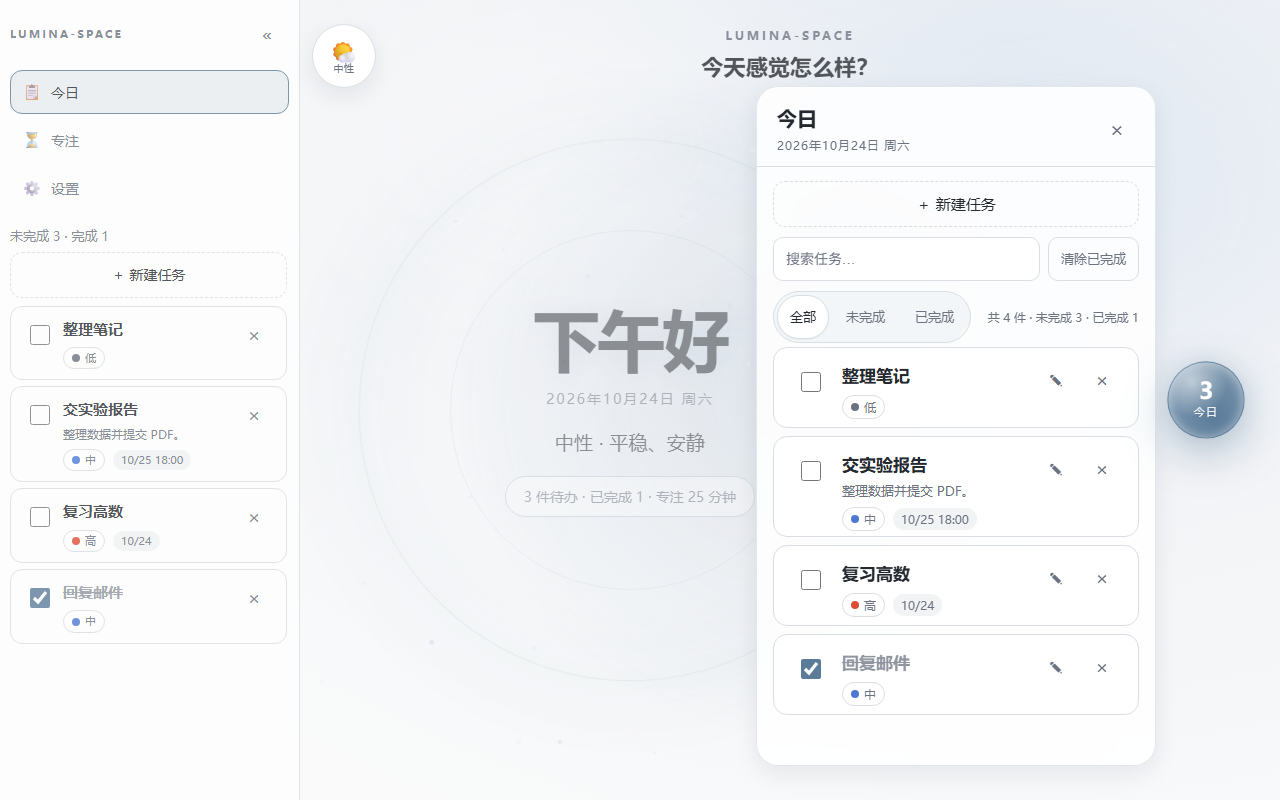
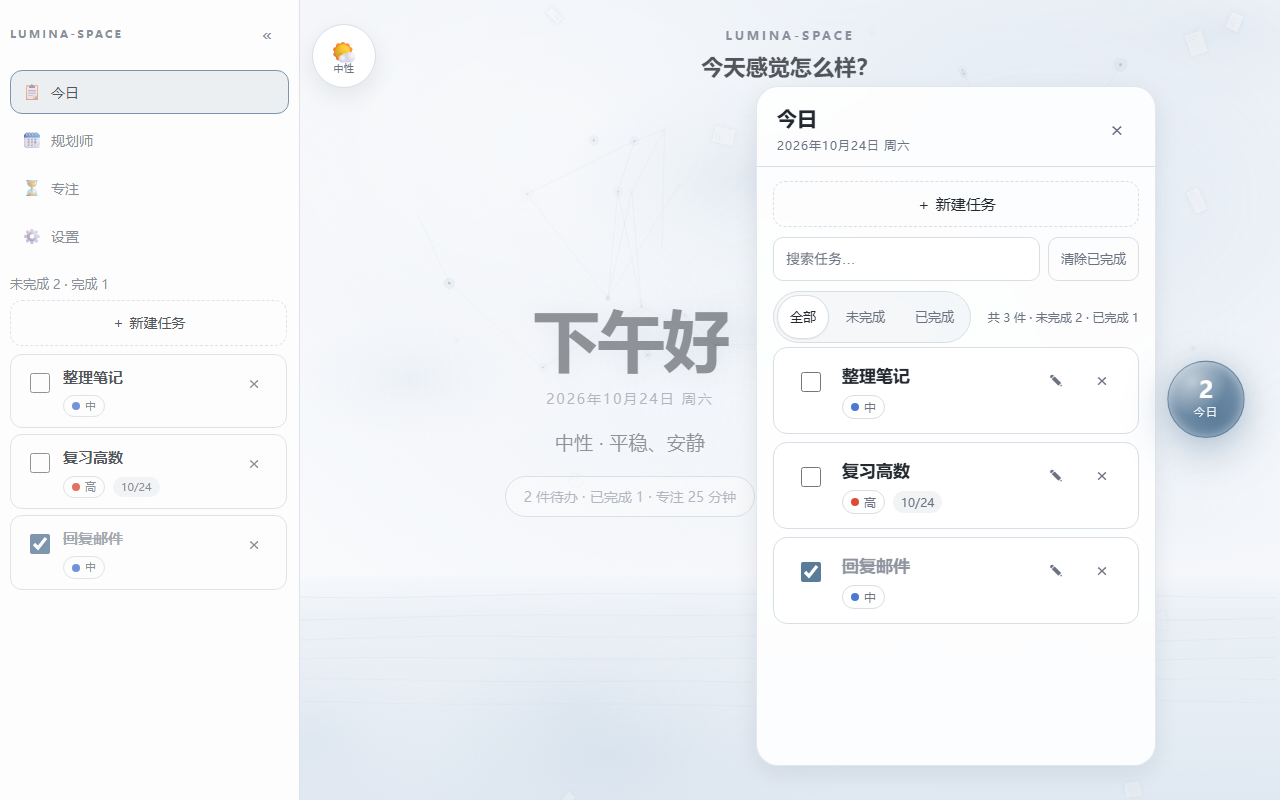
docs: finalize v1.1 scenes and global noise

diff --git a/AGENTS.md b/AGENTS.md
@@ -9,6 +9,7 @@ Guidance for AI agents working on **Lumina-Space** — a mood-aware todo and foc
 - **v0.3 (2026-10-24)**: task CRUD, sidebar drawer (today/focus/settings), pomodoro.
 - **v0.4 (2026-10-24)**: resizable full-height sidebar, large task editor (title/description/due date+time/priority), filters/search, focus stats, export; mood history UI removed.
 - **v1.0 (2026-10-24)**: particle hero, floating today orb, 7-day planner, focus timer tuning, generated hover/click/white-noise audio, mute.
+- **v1.1 (2026-10-24)**: Qoder-generated mood scenes (positive/neutral/negative, no central orb), global white noise in settings, per-mood soundscapes.
 - **Current v2.0**: 3D cottage. Do not start 3D before the v2.0 card.
 
 ## Stack

diff --git a/CHANGELOG.md b/CHANGELOG.md
@@ -1,6 +1,6 @@
 # Changelog
 
-## v1.1.0 — 进行中
+## v1.1.0 — 2026-10-24
 
 ### 新增
 
@@ -12,6 +12,7 @@
 ### 质量
 
 - 129 条单元测试（audio 8、timer 12、greeting 3、planner 4，其余沿用 v0.4）。
+- 014/015 均 PASS WITH COMMENTS；场景动画基于 Qoder 原型落地并适配现有主题。
 
 ## v1.0.0 — 2026-10-24
 
